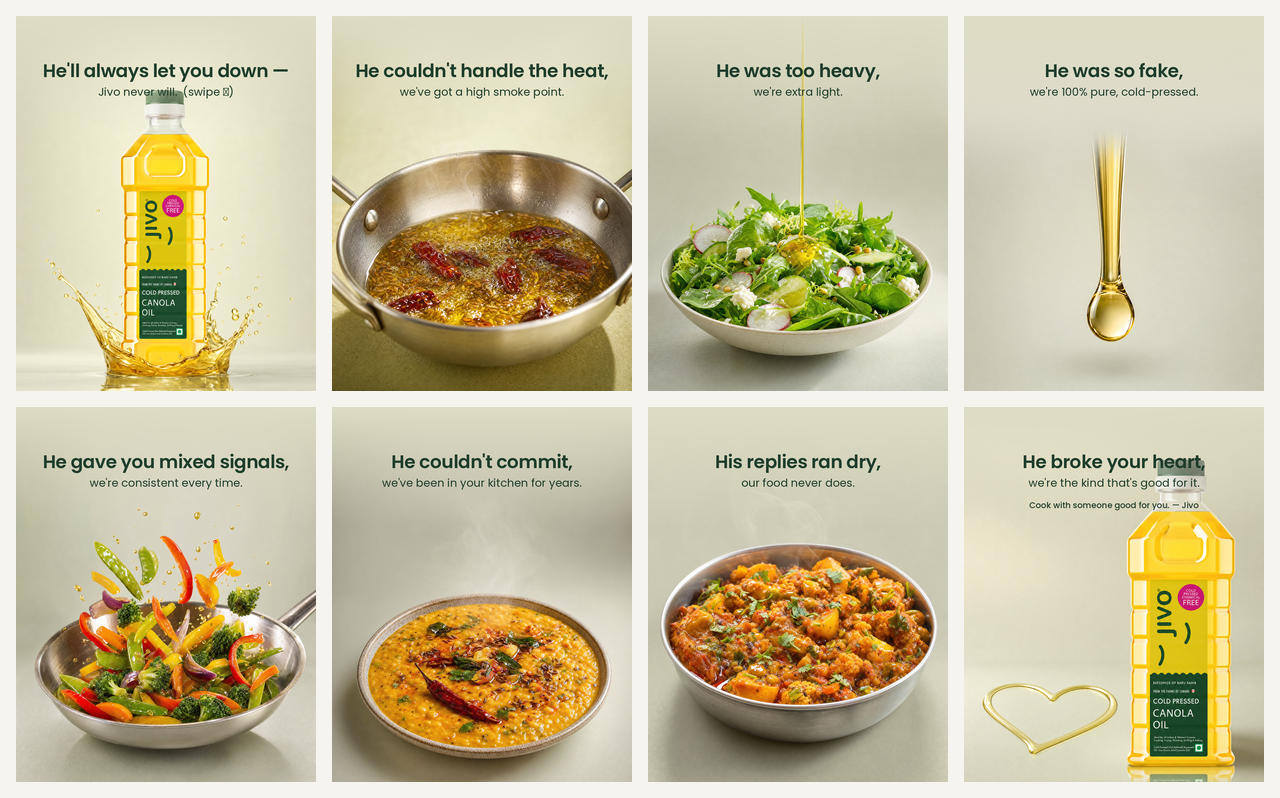
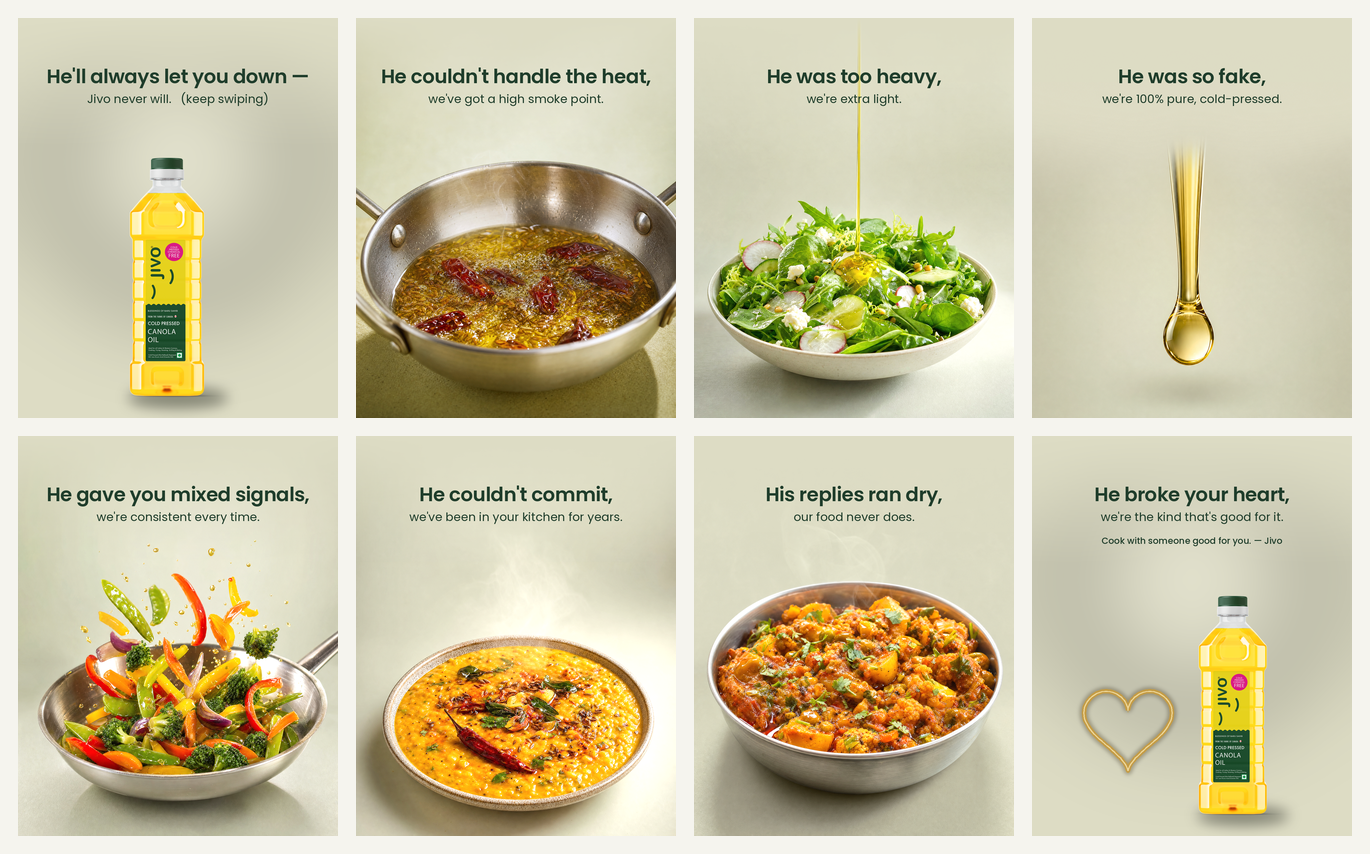
Finish Jivo flip-carousel v1: real-bottle composite, bg white-balance, README
Composite real Canola PNG (pixel-perfect logo) on cover+closer with center glow,
soft shadow + hand-drawn golden oil heart. White-balance every food hero to the
locked sage tone for cross-slide consistency. Lock 66px one-line headlines. Add
team README with copy + caption; sync spec.

diff --git a/scripts/build_flip_carousel.py b/scripts/build_flip_carousel.py
@@ -12,8 +12,9 @@ Usage:
 """
 
 import sys
+import math
 from pathlib import Path
-from PIL import Image, ImageDraw, ImageFont
+from PIL import Image, ImageDraw, ImageFont, ImageFilter
 
 ROOT = Path(__file__).resolve().parent.parent
 FONTS = ROOT / "assets" / "fonts"
@@ -43,6 +44,7 @@ STYLE = {
     "cta_gap": 40,               # gap above CTA
     "top_scrim": True,           # soft sage-cream->transparent scrim over top 32%
     "scrim_frac": 0.32,
+    "normalize_bg": True,        # white-balance each hero so its bg matches STYLE["bg"]
 }
 
 # ----------------------------------------------------------------------------
@@ -59,6 +61,14 @@ SLIDES = [
     ("08", "He broke your heart,", "we're the kind that's good for it.",
      "Cook with someone good for you. — Jivo"),
 ]
+
+# Bottle slides composite the REAL product PNG (pixel-perfect logo) instead of an AI hero.
+BOTTLE_PNG = ROOT / "jivo brand assets " / "03_products" / "canola-oil" / "1L Canola Oil Front New 2025.png"
+BOTTLE = {
+    "01": {"x": 0.50, "h": 0.60, "baseline": 0.95},
+    "08": {"x": 0.66, "h": 0.55, "baseline": 0.95,
+           "heart": True, "heart_x": 0.30, "heart_y": 0.72, "heart_s": 0.22},
+}
 
 
 def font(name, size):
@@ -125,17 +135,97 @@ def add_scrim(img):
     return base.convert("RGB")
 
 
+# ---- bottle-slide compositing (real product PNG, pixel-perfect logo) -------
+def make_glow(W, H):
+    base = Image.new("RGBA", (W, H), STYLE["bg"] + (255,))
+    glow = Image.new("RGBA", (W, H), (0, 0, 0, 0))
+    ImageDraw.Draw(glow).ellipse([W * 0.10, H * 0.02, W * 0.90, H * 0.70],
+                                 fill=(232, 231, 214, 255))
+    glow = glow.filter(ImageFilter.GaussianBlur(170))
+    glow.putalpha(glow.split()[3].point(lambda a: int(a * 0.5)))
+    base.alpha_composite(glow)
+    return base.convert("RGB")
+
+
+def place_bottle(canvas, cfg, W, H):
+    b = Image.open(BOTTLE_PNG).convert("RGBA")
+    th = int(H * cfg["h"]); tw = int(b.width * th / b.height)
+    b = b.resize((tw, th), Image.LANCZOS)
+    cx = int(W * cfg["x"]); base_y = int(H * cfg["baseline"])
+    x = cx - tw // 2; y = base_y - th
+    sh = Image.new("RGBA", (W, H), (0, 0, 0, 0))
+    ew, eh = tw * 0.85, tw * 0.16
+    ImageDraw.Draw(sh).ellipse([cx - ew / 2, base_y - eh / 2, cx + ew / 2, base_y + eh / 2],
+                               fill=(45, 50, 38, 130))
+    sh = sh.filter(ImageFilter.GaussianBlur(22))
+    out = canvas.convert("RGBA")
+    out.alpha_composite(sh)
+    out.alpha_composite(b, (x, y))
+    return out.convert("RGB")
+
+
+def heart_points(cx, cy, s):
+    pts = []
+    for i in range(0, 361, 3):
+        t = math.radians(i)
+        hx = 16 * math.sin(t) ** 3
+        hy = 13 * math.cos(t) - 5 * math.cos(2 * t) - 2 * math.cos(3 * t) - math.cos(4 * t)
+        pts.append((cx + hx * s / 32, cy - hy * s / 32))
+    return pts
+
+
+def draw_heart(canvas, cx, cy, size):
+    layer = Image.new("RGBA", canvas.size, (0, 0, 0, 0))
+    pts = heart_points(cx, cy, size)
+    ImageDraw.Draw(layer).line(pts, fill=(110, 80, 20, 110), width=24, joint="curve")
+    layer = layer.filter(ImageFilter.GaussianBlur(7))
+    d = ImageDraw.Draw(layer)
+    d.line(pts, fill=(196, 156, 70, 255), width=15, joint="curve")
+    d.line(pts, fill=(238, 214, 150, 255), width=4, joint="curve")
+    out = canvas.convert("RGBA")
+    out.alpha_composite(layer)
+    return out.convert("RGB")
+
+
+def build_bottle_bg(sid, W, H):
+    cfg = BOTTLE[sid]
+    canvas = make_glow(W, H)
+    canvas = place_bottle(canvas, cfg, W, H)
+    if cfg.get("heart"):
+        canvas = draw_heart(canvas, int(W * cfg["heart_x"]),
+                             int(H * cfg["heart_y"]), int(H * cfg["heart_s"]))
+    return canvas
+
+
+def normalize_to_bg(img, target):
+    """White-balance the hero so its (pure-bg) top strip matches the locked bg tone."""
+    w, h = img.size
+    avg = img.crop((0, 0, w, int(h * 0.12))).resize((1, 1), Image.LANCZOS).getpixel((0, 0))
+    gains = [max(0.7, min(1.5, (target[i] + 2) / (avg[i] + 2))) for i in range(3)]
+    chans = img.split()
+    chans = [chans[i].point(lambda v, g=gains[i]: min(255, int(v * g))) for i in range(3)]
+    return Image.merge("RGB", chans)
+
+
+def base_canvas(sid, W, H):
+    if sid in BOTTLE:
+        return build_bottle_bg(sid, W, H), True
+    matches = list(HEROES.glob(f"{sid}-*.png")) + list(HEROES.glob(f"{sid}-*.jpg"))
+    if matches:
+        art = fit_hero(matches[0], W, H)
+        if STYLE["normalize_bg"]:
+            art = normalize_to_bg(art, STYLE["bg"])
+        return art, True
+    return Image.new("RGB", (W, H), STYLE["bg"]), False
+
+
 def build(slide):
     sid, l1, l2, cta = slide
-    matches = list(HEROES.glob(f"{sid}-*.png")) + list(HEROES.glob(f"{sid}-*.jpg"))
     W, H, M = STYLE["canvas_w"], STYLE["canvas_h"], STYLE["margin"]
     cx = W / 2
     max_w = W - 2 * M
 
-    if matches:
-        canvas = fit_hero(matches[0], W, H)
-    else:
-        canvas = Image.new("RGB", (W, H), STYLE["bg"])   # placeholder if no hero yet
+    canvas, has_art = base_canvas(sid, W, H)
 
     if STYLE["top_scrim"]:
         canvas = add_scrim(canvas)
@@ -164,7 +254,7 @@ def build(slide):
     SLIDES_OUT.mkdir(parents=True, exist_ok=True)
     out = SLIDES_OUT / f"{sid}-slide.png"
     canvas.save(out, "PNG")
-    tag = "" if matches else "  (placeholder bg — no hero yet)"
+    tag = "" if has_art else "  (placeholder bg — no hero yet)"
     print(f"built {out.relative_to(ROOT)}{tag}")
 
 

diff --git a/docs/superpowers/specs/2026-05-24-jivo-flip-carousel-design.md b/docs/superpowers/specs/2026-05-24-jivo-flip-carousel-design.md
@@ -20,9 +20,11 @@ a different hero per slide, identical visual system, satisfying swipe rhythm.
 
 ### Hard constraints (from the brand owner — non-negotiable)
 
-1. **NO Jivo logo anywhere on screen. No exceptions.** No logo mark, **no branded bottle**
-   (a visible label = a logo). Heroes are **pure food/oil only**. Brand attribution comes
-   *only* from the typeset word "Jivo" inside the copy (cover + closer).
+1. **No standalone logo / watermark on the slide** — no corner mark, no logo stitched on
+   the side. BUT the **real product bottle, with its actual label/logo, IS the brand
+   identity and is used as-is** on the cover + closer — composited from the real product
+   PNG (`jivo brand assets /03_products/canola-oil/1L Canola Oil Front New 2025.png`) for a
+   pixel-perfect label, never AI-redrawn. Middle slides are pure food/oil action.
 2. **Images:** Higgsfield **`gpt_image_2`** only, **2k / high quality**, generated **without text**.
 3. **All typography, spacing, palette, lighting, framing are LOCKED tokens** — identical on
    every slide and reusable for future carousels. Codified in the overlay script + a fixed
@@ -56,8 +58,9 @@ These values are FIXED across every slide, this carousel and all future ones.
 - Same camera height + framing logic every slide.
 
 ### Typography (Poppins, bundled in `assets/fonts/`)
-- **Line 1 (the roast):** Poppins **SemiBold**, **76 px**, ink `#1F3D2B`, centered,
-  tracking −1, line-height 1.06.
+- **Line 1 (the roast):** Poppins **SemiBold**, **66 px** (largest size where all 8
+  headlines fit on one line at 80 px margins), ink `#1F3D2B`, centered, tracking −1,
+  line-height 1.06.
 - **Line 2 (the flip):** Poppins **Regular**, **40 px**, ink `#1F3D2B`, centered,
   lowercase, ~26 px gap under line 1.
 - Text block **top-anchored at y = 150 px**, horizontally centered, max width **880 px** (wraps).
@@ -112,7 +115,9 @@ These values are FIXED across every slide, this carousel and all future ones.
 
 ---
 
-## 5. Open items
-- Confirm "pure food, no bottle" reading of the no-logo rule (vs. blank/unbranded bottle).
-- Final legal pass on slide 8 heart copy.
-- Optional: stitch slides into a fast-cut reel later (separate spec).
+## 5. Status & open items
+- ✅ Concept, look, voice, format, 66px one-line headlines, sage white-balance + scrim — locked.
+- ✅ Bottle rule resolved: composite the **real** Canola PNG (pixel-perfect label) on cover + closer.
+- ✅ v1 of all 8 slides built → `jivo-flip-carousel/slides/` (+ `contact-sheet.png`).
+- ⏳ **Final legal/regulatory pass on copy** before posting (esp. slide 8 "good for your heart").
+- ⏳ Optional: stitch slides into a fast-cut reel later (separate spec).

diff --git a/jivo-flip-carousel/README.md b/jivo-flip-carousel/README.md
@@ -1,0 +1,44 @@
+# Jivo "Flip" Carousel
+
+An 8-slide Instagram carousel that flips a relationship **red flag** into a Jivo virtue
+("the product is the better partner"). Modeled on the viral `bakemyday.me` format.
+
+Full design + locked style system: [`../docs/superpowers/specs/2026-05-24-jivo-flip-carousel-design.md`](../docs/superpowers/specs/2026-05-24-jivo-flip-carousel-design.md)
+
+## How it's made
+- **Higgsfield (GPT Image 2)** generates the food/oil hero shots (no text) → `heroes/`.
+- **Python/Pillow** (`../scripts/build_flip_carousel.py`) white-balances each hero to the
+  locked sage tone, composites the real Canola bottle on the cover/closer, and stamps the
+  locked Poppins / forest-green type → `slides/`.
+
+Rebuild any time:
+```bash
+python3 scripts/build_flip_carousel.py        # all slides
+python3 scripts/build_flip_carousel.py 02     # one slide
+```
+
+## The 8 slides (copy)
+1. **He'll always let you down —** Jivo never will. *(cover · real bottle)*
+2. **He couldn't handle the heat,** we've got a high smoke point.
+3. **He was too heavy,** we're extra light.
+4. **He was so fake,** we're 100% pure, cold-pressed.
+5. **He gave you mixed signals,** we're consistent every time.
+6. **He couldn't commit,** we've been in your kitchen for years.
+7. **His replies ran dry,** our food never does.
+8. **He broke your heart,** we're the kind that's good for it. — *Cook with someone good for you. — Jivo* *(closer · real bottle + oil heart)*
+
+## Suggested caption
+> Situationships end. Good cooking doesn't. 🫒
+>
+> He couldn't handle the heat. He left you on read. He gave you mixed signals.
+> But your oil? Loyal, light, and actually good to you. ❤
+>
+> Swipe through every red flag Jivo *doesn't* have →
+> Cook with someone good for you.
+>
+> #Jivo #ColdPressed #CanolaOil #HealthyCooking #IndianKitchen #FoodHumour #Relatable
+
+## ⚠ Before posting
+Run the copy through a **legal/regulatory pass** — keep it product-led, no medical/disease
+claims. Soften slide 8 if needed ("light on your heart" / tie to "low in saturated fat,
+rich in MUFA").
